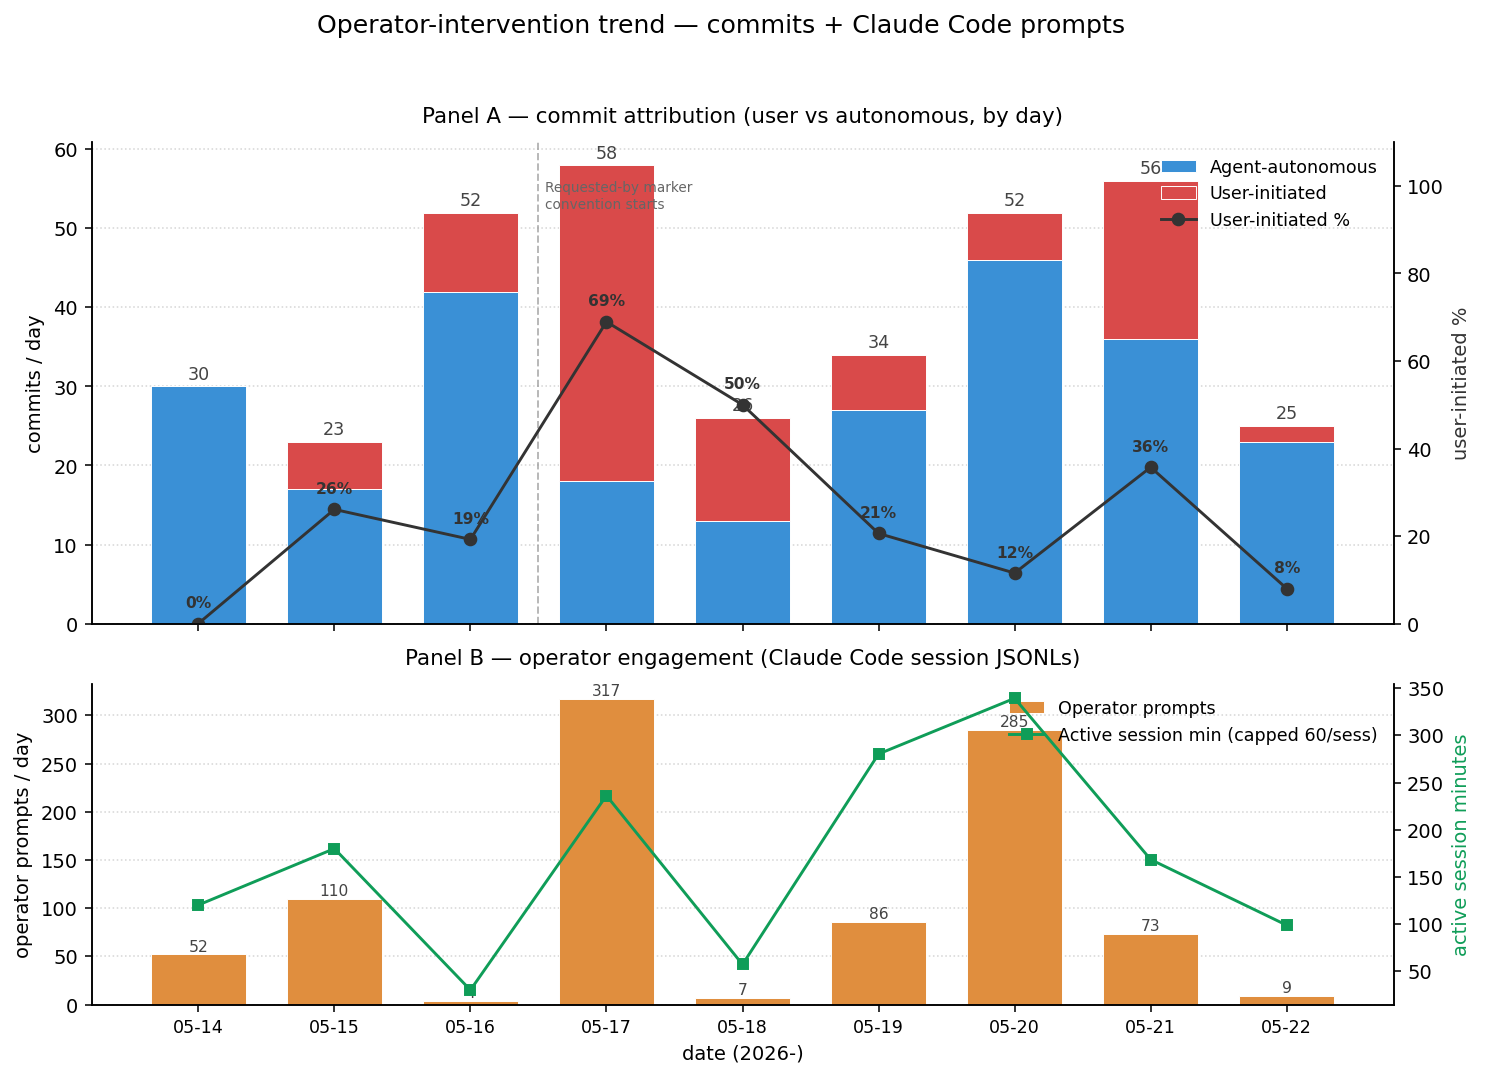
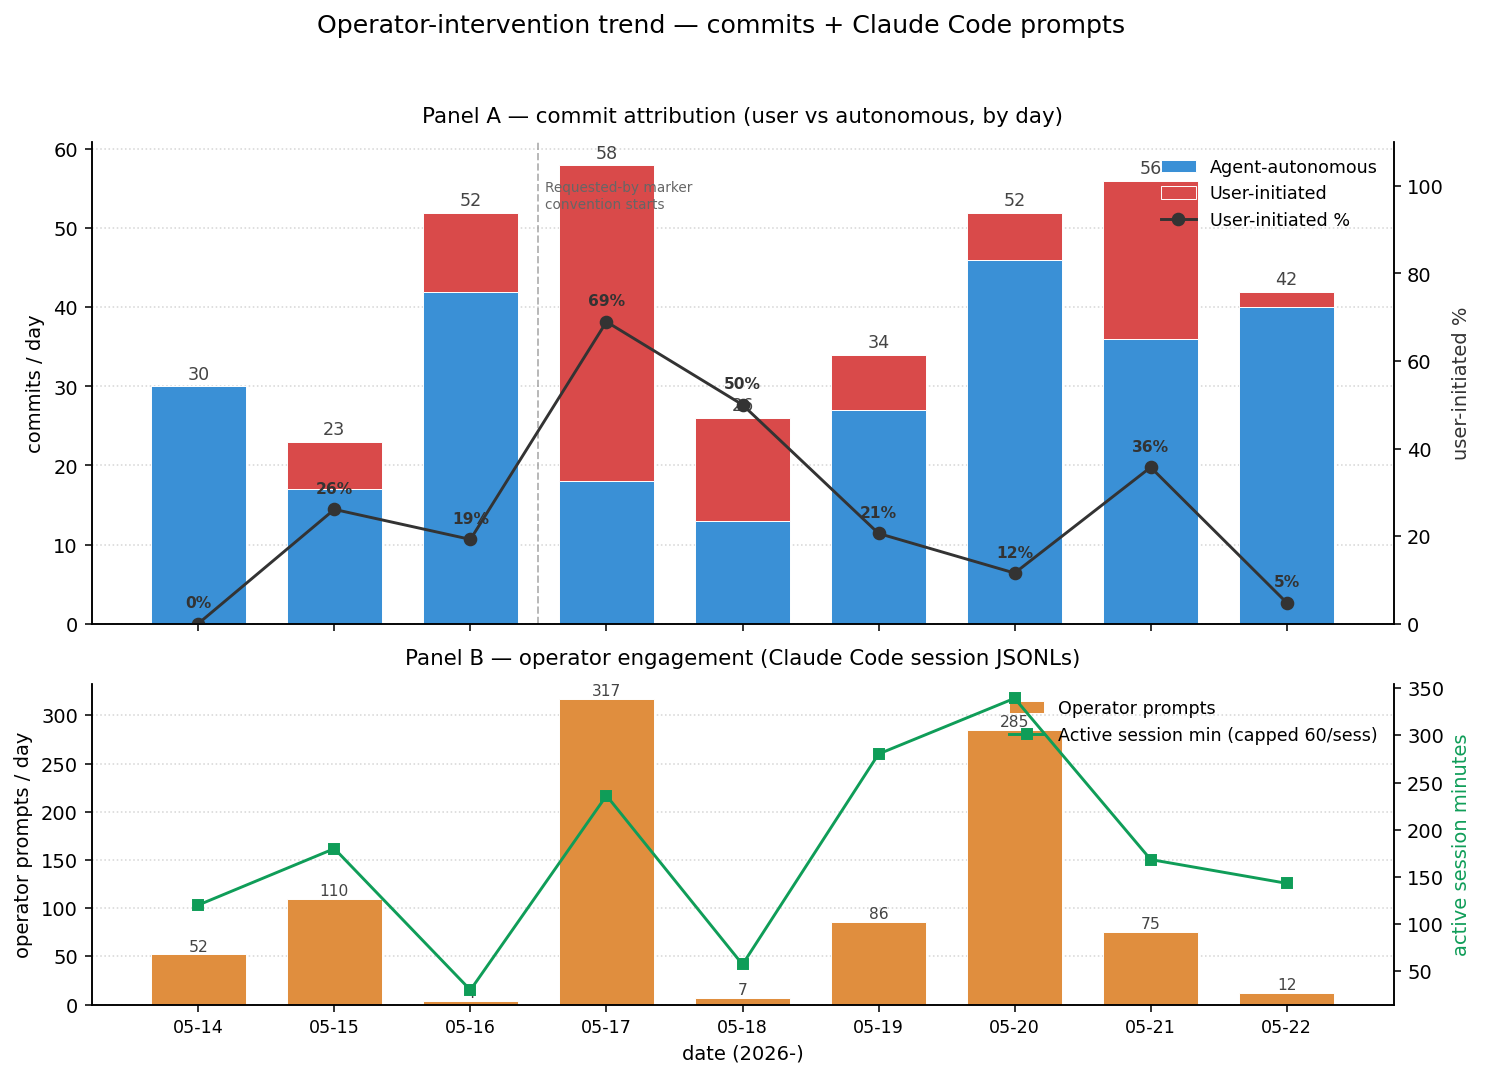
feat(metrics): intervention chart gains trend_7d annotations
Adds a trend_7d field to intervention.json that summarizes
last-7-day average vs prior-7-day average for each axis
(user_ratio_pct, leverage_ratio, operator_prompts,
active_session_minutes) plus a direction array with arrows like
user-ratio↓ / leverage↑ / prompts↓.

Lets the operator scan one block to see weekly direction without
reading the chart panels.  Populates fully on 2026-05-29 (need
14 days of data for prev-7 comparison; first 7 days bootstrap with
null prev7).

Reading the current 7-day average vs no prior reference:
- user_ratio_pct  30.1% avg (skewed by 5/17 spike at 69%)
- leverage_ratio  5.59 avg
- operator_prompts  112/day avg
- active_session_minutes  179/day avg

The post-2026-05-22 window should show all 4 trending in the
intervention-reducing direction if the levers are working.

diff --git a/scripts/generate-intervention-chart.py b/scripts/generate-intervention-chart.py
@@ -270,6 +270,47 @@ def main() -> int:
             "session_count": sm["sessions"],
         })
 
+    # Trend annotations — quick at-a-glance signal of direction.
+    # 7-day rolling: latest 7 vs prior 7 (window ending today).
+    def avg(lst):
+        return sum(lst) / len(lst) if lst else 0
+    last7 = out_days[-7:] if len(out_days) >= 7 else out_days
+    prev7 = out_days[-14:-7] if len(out_days) >= 14 else []
+    def delta(field):
+        a = avg([r[field] for r in last7])
+        b = avg([r[field] for r in prev7]) if prev7 else None
+        return {
+            "last7_avg": round(a, 2),
+            "prev7_avg": round(b, 2) if b is not None else None,
+            "delta": round(a - b, 2) if b is not None else None,
+        }
+    trend_summary = {
+        "user_ratio_pct":          delta("user_ratio_pct"),
+        "leverage_ratio":          delta("leverage_ratio"),
+        "operator_prompts":        delta("operator_prompts"),
+        "active_session_minutes":  delta("active_session_minutes"),
+    }
+    # Direction hints — negative delta on user_ratio + prompts = good.
+    direction = []
+    ur = trend_summary["user_ratio_pct"]["delta"]
+    lr = trend_summary["leverage_ratio"]["delta"]
+    op = trend_summary["operator_prompts"]["delta"]
+    if ur is not None:
+        if ur < -1:
+            direction.append("user-ratio↓")
+        elif ur > 1:
+            direction.append("user-ratio↑")
+    if lr is not None:
+        if lr > 0.5:
+            direction.append("leverage↑")
+        elif lr < -0.5:
+            direction.append("leverage↓")
+    if op is not None:
+        if op < -5:
+            direction.append("prompts↓")
+        elif op > 5:
+            direction.append("prompts↑")
+    trend_summary["direction"] = direction
     OUT_JSON.write_text(json.dumps({
         "generated_at": datetime.now().isoformat(timespec="seconds"),
         "marker_convention_started": MARKER_DATE.isoformat(),
@@ -281,6 +322,7 @@ def main() -> int:
             "session JSONLs. Goal: both signals trend down as the agent system "
             "absorbs more decisions."
         ),
+        "trend_7d": trend_summary,
         "days": out_days,
         "commits": [
             {"sha": c["sha"], "date": c["date"].isoformat(),

diff --git a/docs/autonomous-decisions.md b/docs/autonomous-decisions.md
@@ -37,6 +37,7 @@ header if today's section doesn't exist.
 
 ## 2026-05-22 (overnight autonomous)
 
+- `04:20 KST` — Phase 16 — intervention.json gains trend_7d field (last7 avg + prev7 avg + delta + direction hints). 7-day comparison populates from 2026-05-29; currently null prev7 since only 9 days of data
 - `04:10 KST` — README EN+KO Design notes section refreshed — operator tooling bullet now describes all 5 reduction scripts (doctor, audit-skill-drift, statusline, log-decision, review-queue)
 - `04:00 KST` — §8 registry restructured to drop line numbers — anchors by filename + pattern instead, audited via grep. Prevents coordinate-staleness from recurring (39th audit's structural-fix suggestion)
 - `03:55 KST` — Site refresh: case-studies count 6→8, operator-tooling card expanded (statusline + log-decision + review-queue), intervention chart copy refreshed to 2-panel, alt text updated
